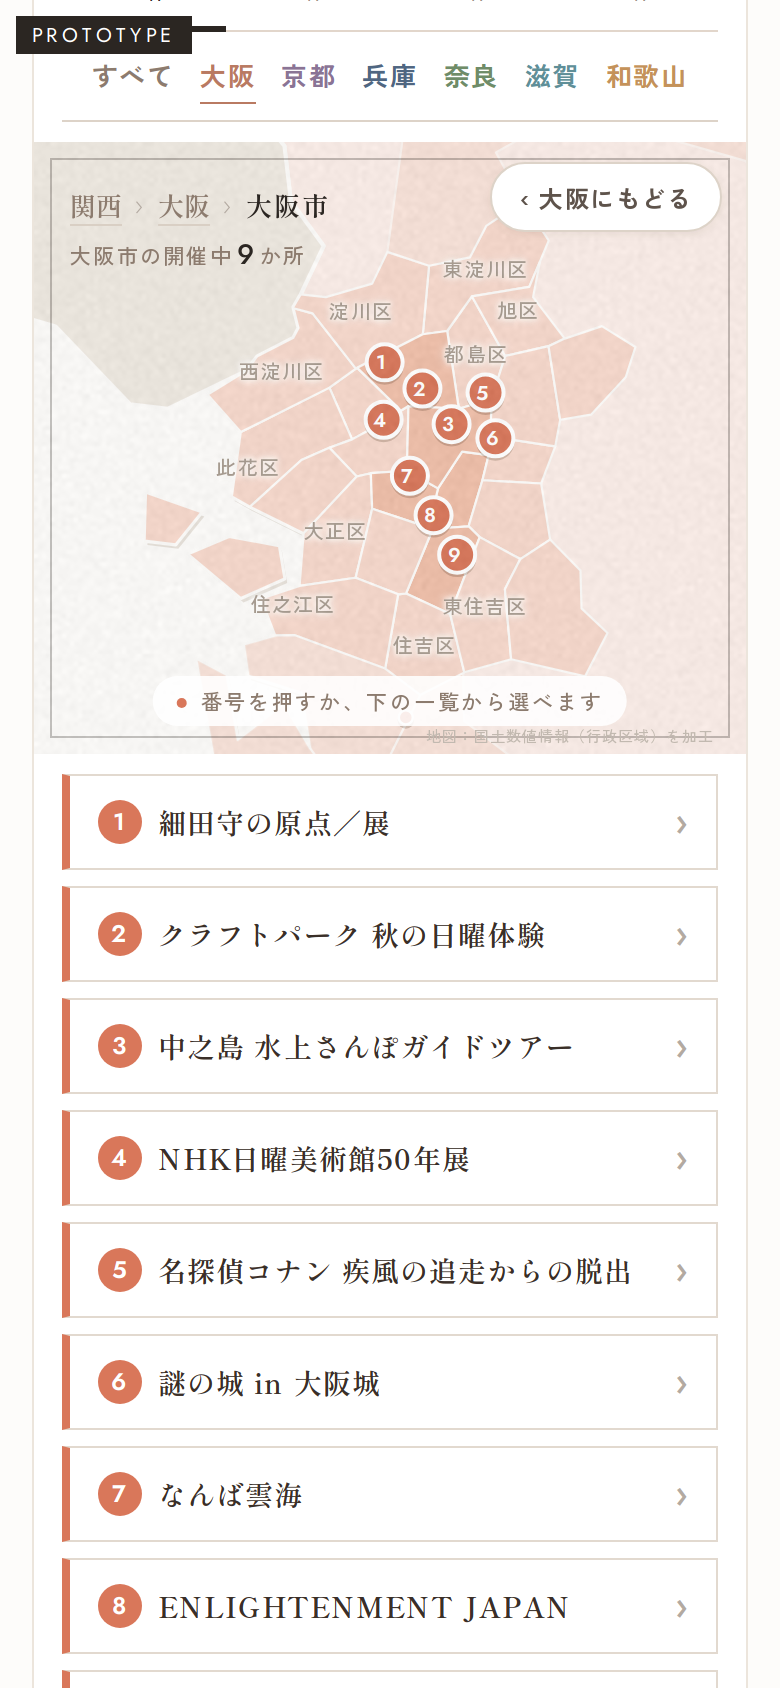
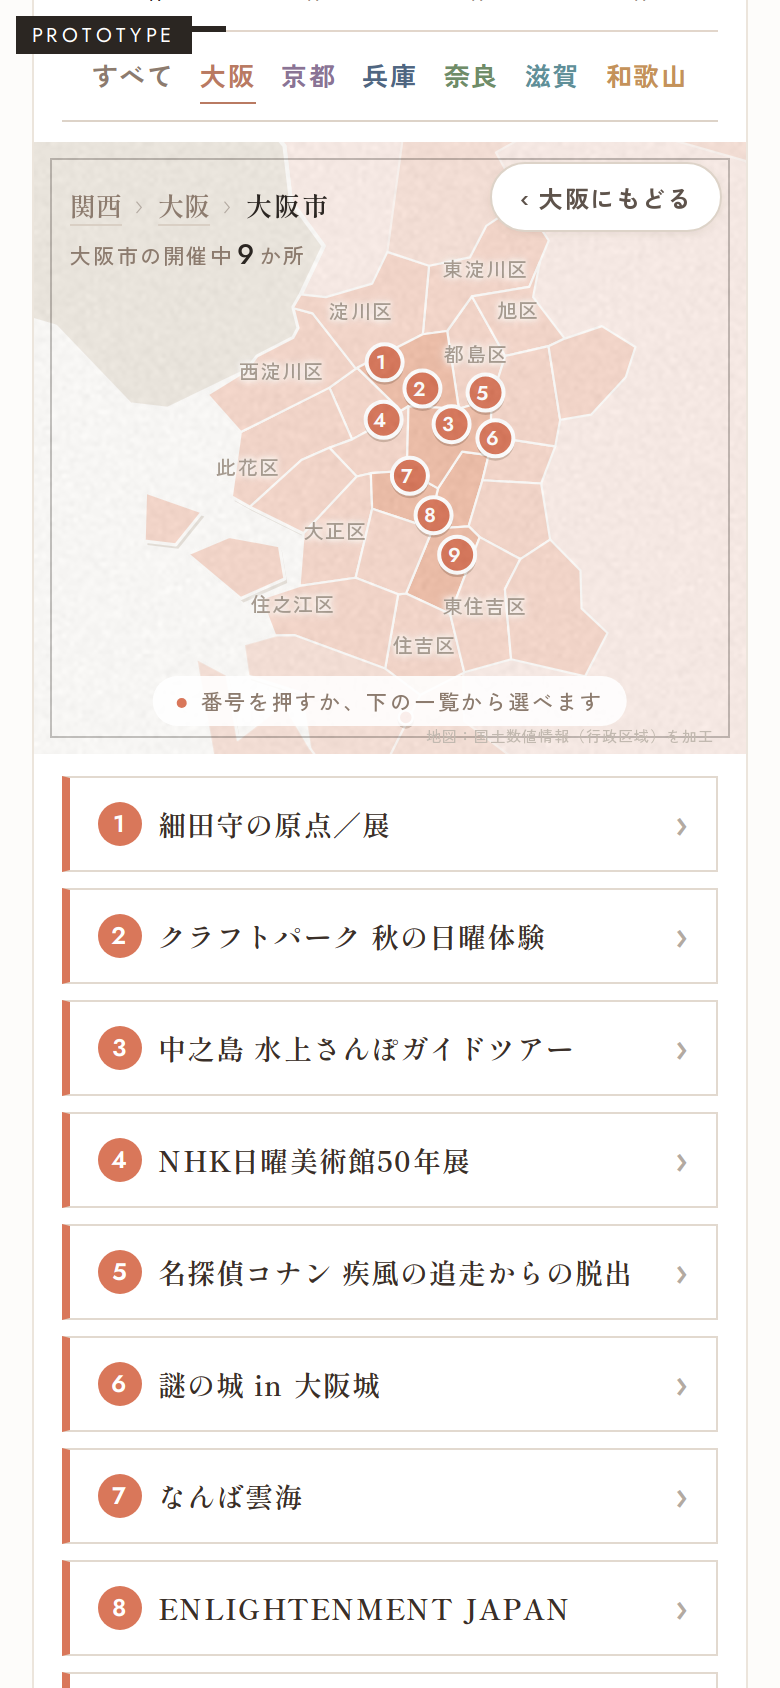
TOWN NOTES 試作：リストが主役、地図は「地図で見る」で開く (#185)
* TOWN NOTES（仮）: おでかけ先の場所を緯度経度にする仕組み

Claude-Session: https://claude.ai/code/session_012U6So1FwuhCU8YQS91whDj

* TOWN NOTES（仮）: 地図とピンの仮ページ（links/townnotes/）

Claude-Session: https://claude.ai/code/session_012U6So1FwuhCU8YQS91whDj

* townnotes: geo.json

* TOWN NOTES（仮）: 今のおでかけリストに地図とピンを組み込んだ試作

Claude-Session: https://claude.ai/code/session_012U6So1FwuhCU8YQS91whDj

* 古い試作テンプレートを消す

Claude-Session: https://claude.ai/code/session_012U6So1FwuhCU8YQS91whDj

* townnotes: geo.json

* TOWN NOTES（仮）: もうすぐのピンを点線の輪に

Claude-Session: https://claude.ai/code/session_012U6So1FwuhCU8YQS91whDj

* TOWN NOTES（仮）: 地図を指で拡大できる明るい地図に（区名・駅名つき）

Claude-Session: https://claude.ai/code/session_012U6So1FwuhCU8YQS91whDj

* townnotes: shots

* TOWN NOTES（仮）: 府県名・まとまりの丸・出典の表示を直す

Claude-Session: https://claude.ai/code/session_012U6So1FwuhCU8YQS91whDj

* townnotes: shots

* TOWN NOTES（仮）: イラストの地図に戻す（府県・市区町村の形だけ、明るい色、指で拡大）

Claude-Session: https://claude.ai/code/session_012U6So1FwuhCU8YQS91whDj

* townnotes: shots

* TOWN NOTES（仮）: 府県を選んだとき、ほかの府県は薄いベージュに

Claude-Session: https://claude.ai/code/session_012U6So1FwuhCU8YQS91whDj

* townnotes: shots

* TOWN NOTES 試作 v5: 押すだけで 関西→府県→市・区 と寄る地図（指2本なし）

Claude-Session: https://claude.ai/code/session_012U6So1FwuhCU8YQS91whDj

* townnotes: shots

* TOWN NOTES 試作: 府県ボタンと件数を地図のすぐ上へ

Claude-Session: https://claude.ai/code/session_012U6So1FwuhCU8YQS91whDj

* townnotes: shots

* TOWN NOTES 試作: 件数の行は上に戻し、府県ボタンだけ地図の上へ
[…]

Changed region(s): [[0.0923, 0.4621, 0.9231, 1.0], [0.8615, 0.5237, 0.8923, 0.5853]]

diff --git a/links/townnotes/map.js b/links/townnotes/map.js
@@ -17,6 +17,12 @@ function P(lon,lat){return [(lon-134)*82.2,(36-lat)*100]}
 // ---- 見た目 ----
 var css=`
 .tn{margin:0 0 18px}
+.tn.shut{display:none}
+.tnbtn{display:flex;align-items:center;justify-content:center;gap:9px;width:100%;height:44px;margin:0 0 14px;background:#fff;border:1px solid #E2D9CF;border-radius:22px;font-family:"Zen Kaku Gothic New",sans-serif;font-weight:700;font-size:14px;letter-spacing:.08em;color:#3A2F28;cursor:pointer;touch-action:manipulation;-webkit-tap-highlight-color:transparent;box-shadow:0 1px 0 rgba(43,38,34,.04)}
+.tnbtn svg{width:17px;height:17px;flex:none}
+.tnbtn b{font-family:Jost,sans-serif;font-weight:500;font-size:15px;color:#B3AAA1;transition:transform .25s}
+.tnbtn.on b{transform:rotate(180deg)}
+.tnbtn.on{margin-bottom:10px}
 .tn .chips{display:none;flex-wrap:wrap;gap:8px;margin:10px 0 2px}
 .tn .chips.on{display:flex}
 .tn .chips button{flex:1 1 calc(50% - 4px);display:flex;align-items:center;justify-content:space-between;gap:8px;min-height:46px;padding:0 14px;background:#fff;border:1px solid #E2D9CF;border-left:4px solid var(--c);font-family:"Zen Kaku Gothic New",sans-serif;font-weight:700;font-size:14px;letter-spacing:.04em;color:#3A2F28;cursor:pointer;touch-action:manipulation;-webkit-tap-highlight-color:transparent;text-align:left}
@@ -286,14 +292,26 @@ function mount(){var bar=$(".tabs");if(!bar)return;
  var top=$(".tn-top");if(!top){top=document.createElement("div");top.className="tn-top"}
  ["flt","none"].forEach(function(id){var e=document.getElementById(id);if(e&&e.parentNode!==top)top.appendChild(e)});
  if(bar.nextSibling!==top)bar.parentNode.insertBefore(top,bar.nextSibling);
- if(top.nextSibling!==box)top.parentNode.insertBefore(box,top.nextSibling);}
-function sync(){mount();if(!ready)return;var pf=curPref(),sig=pf+"|"+curTab();if(sig===lastSig)return;var first=!lastSig,pfChanged=first||lastSig.split("|")[0]!==pf;lastSig=sig;
+ // 地図は「地図で見る」を押した人だけに出す（リストが主役）
+ if(top.nextSibling!==mb)top.parentNode.insertBefore(mb,top.nextSibling);
+ if(mb.nextSibling!==box)mb.parentNode.insertBefore(box,mb.nextSibling);}
+var mb=document.createElement("button");mb.type="button";mb.className="tnbtn";
+var OPEN=false;try{OPEN=sessionStorage.getItem("tnmap")==="1"}catch(e){}
+function setOpen(v){OPEN=v;box.classList.toggle("shut",!v);mb.classList.toggle("on",v);
+ mb.innerHTML='<svg viewBox="0 0 24 24" fill="none" stroke="#B5532F" stroke-width="1.8" stroke-linejoin="round"><path d="M9 4 3 6.5v13L9 17l6 2.5 6-2.5V4l-6 2.5L9 4Z"/><path d="M9 4v13M15 6.5v13"/></svg>'+(v?"地図を閉じる":"地図で見る")+"<b>⌄</b>";
+ try{sessionStorage.setItem("tnmap",v?"1":"0")}catch(e){}
+ if(v){if(!loading)load();else if(ready){lastSig="";sync()}}else{sel=null;pop.classList.remove("on")}}
+mb.addEventListener("click",function(){setOpen(!OPEN)});
+function sync(){mount();if(!ready||!OPEN)return;var pf=curPref(),sig=pf+"|"+curTab();if(sig===lastSig)return;var first=!lastSig,pfChanged=first||lastSig.split("|")[0]!==pf;lastSig=sig;
  list=items();$(".lg",box).style.display=curTab()==="もうすぐ"?"flex":"none";sel=null;pop.classList.remove("on");
- if(pfChanged){state.pref=pf;state.muni=null;if(first){vb=fit(HOME,.02);render()}else goPref()}else render();}
+ if(pfChanged){state.pref=pf;state.muni=null;if(first){var hb=pf&&hotBox(pf);vb=pf?(hb?fit(hb,.18):fit(PF[pf].bb,.03)):fit(HOME,.02);render()}else goPref()}else render();}
 document.addEventListener("click",function(e){if(e.target.closest("#flt,.tabs,.dflt"))setTimeout(sync,90)});
 addEventListener("resize",function(){if(ready)apply()});
 mount();
+// 地図のデータは、はじめて開いたときだけ読む（開かない人は軽いまま）
+var loading=false;function load(){loading=true;
 Promise.all([fetch("/townnotes/geo.json",{cache:"no-store"}).then(function(r){return r.json()}).catch(function(){return{}}),fetch("/townnotes/kansai.json").then(function(r){return r.json()})]).then(function(a){
  Object.keys(a[0]).forEach(function(k){if(a[0][k][0]!=null)GEO[key(k)]=a[0][k]});setup(a[1]);ready=true;lastSig="";sync();window.__tnReady=true;
-}).catch(function(e){console.error(e);$(".fr",box).style.display="none"});
+}).catch(function(e){console.error(e);$(".fr",box).style.display="none"});}
+setOpen(OPEN);
 })();

diff --git a/tools/townnotes/map.src.js b/tools/townnotes/map.src.js
@@ -17,6 +17,12 @@ function P(lon,lat){return [(lon-134)*82.2,(36-lat)*100]}
 // ---- 見た目 ----
 var css=`
 .tn{margin:0 0 18px}
+.tn.shut{display:none}
+.tnbtn{display:flex;align-items:center;justify-content:center;gap:9px;width:100%;height:44px;margin:0 0 14px;background:#fff;border:1px solid #E2D9CF;border-radius:22px;font-family:"Zen Kaku Gothic New",sans-serif;font-weight:700;font-size:14px;letter-spacing:.08em;color:#3A2F28;cursor:pointer;touch-action:manipulation;-webkit-tap-highlight-color:transparent;box-shadow:0 1px 0 rgba(43,38,34,.04)}
+.tnbtn svg{width:17px;height:17px;flex:none}
+.tnbtn b{font-family:Jost,sans-serif;font-weight:500;font-size:15px;color:#B3AAA1;transition:transform .25s}
+.tnbtn.on b{transform:rotate(180deg)}
+.tnbtn.on{margin-bottom:10px}
 .tn .chips{display:none;flex-wrap:wrap;gap:8px;margin:10px 0 2px}
 .tn .chips.on{display:flex}
 .tn .chips button{flex:1 1 calc(50% - 4px);display:flex;align-items:center;justify-content:space-between;gap:8px;min-height:46px;padding:0 14px;background:#fff;border:1px solid #E2D9CF;border-left:4px solid var(--c);font-family:"Zen Kaku Gothic New",sans-serif;font-weight:700;font-size:14px;letter-spacing:.04em;color:#3A2F28;cursor:pointer;touch-action:manipulation;-webkit-tap-highlight-color:transparent;text-align:left}
@@ -286,14 +292,26 @@ function mount(){var bar=$(".tabs");if(!bar)return;
  var top=$(".tn-top");if(!top){top=document.createElement("div");top.className="tn-top"}
  ["flt","none"].forEach(function(id){var e=document.getElementById(id);if(e&&e.parentNode!==top)top.appendChild(e)});
  if(bar.nextSibling!==top)bar.parentNode.insertBefore(top,bar.nextSibling);
- if(top.nextSibling!==box)top.parentNode.insertBefore(box,top.nextSibling);}
-function sync(){mount();if(!ready)return;var pf=curPref(),sig=pf+"|"+curTab();if(sig===lastSig)return;var first=!lastSig,pfChanged=first||lastSig.split("|")[0]!==pf;lastSig=sig;
+ // 地図は「地図で見る」を押した人だけに出す（リストが主役）
+ if(top.nextSibling!==mb)top.parentNode.insertBefore(mb,top.nextSibling);
+ if(mb.nextSibling!==box)mb.parentNode.insertBefore(box,mb.nextSibling);}
+var mb=document.createElement("button");mb.type="button";mb.className="tnbtn";
+var OPEN=false;try{OPEN=sessionStorage.getItem("tnmap")==="1"}catch(e){}
+function setOpen(v){OPEN=v;box.classList.toggle("shut",!v);mb.classList.toggle("on",v);
+ mb.innerHTML='<svg viewBox="0 0 24 24" fill="none" stroke="#B5532F" stroke-width="1.8" stroke-linejoin="round"><path d="M9 4 3 6.5v13L9 17l6 2.5 6-2.5V4l-6 2.5L9 4Z"/><path d="M9 4v13M15 6.5v13"/></svg>'+(v?"地図を閉じる":"地図で見る")+"<b>⌄</b>";
+ try{sessionStorage.setItem("tnmap",v?"1":"0")}catch(e){}
+ if(v){if(!loading)load();else if(ready){lastSig="";sync()}}else{sel=null;pop.classList.remove("on")}}
+mb.addEventListener("click",function(){setOpen(!OPEN)});
+function sync(){mount();if(!ready||!OPEN)return;var pf=curPref(),sig=pf+"|"+curTab();if(sig===lastSig)return;var first=!lastSig,pfChanged=first||lastSig.split("|")[0]!==pf;lastSig=sig;
  list=items();$(".lg",box).style.display=curTab()==="もうすぐ"?"flex":"none";sel=null;pop.classList.remove("on");
- if(pfChanged){state.pref=pf;state.muni=null;if(first){vb=fit(HOME,.02);render()}else goPref()}else render();}
+ if(pfChanged){state.pref=pf;state.muni=null;if(first){var hb=pf&&hotBox(pf);vb=pf?(hb?fit(hb,.18):fit(PF[pf].bb,.03)):fit(HOME,.02);render()}else goPref()}else render();}
 document.addEventListener("click",function(e){if(e.target.closest("#flt,.tabs,.dflt"))setTimeout(sync,90)});
 addEventListener("resize",function(){if(ready)apply()});
 mount();
+// 地図のデータは、はじめて開いたときだけ読む（開かない人は軽いまま）
+var loading=false;function load(){loading=true;
 Promise.all([fetch("/townnotes/geo.json",{cache:"no-store"}).then(function(r){return r.json()}).catch(function(){return{}}),fetch("/townnotes/kansai.json").then(function(r){return r.json()})]).then(function(a){
  Object.keys(a[0]).forEach(function(k){if(a[0][k][0]!=null)GEO[key(k)]=a[0][k]});setup(a[1]);ready=true;lastSig="";sync();window.__tnReady=true;
-}).catch(function(e){console.error(e);$(".fr",box).style.display="none"});
+}).catch(function(e){console.error(e);$(".fr",box).style.display="none"});}
+setOpen(OPEN);
 })();
